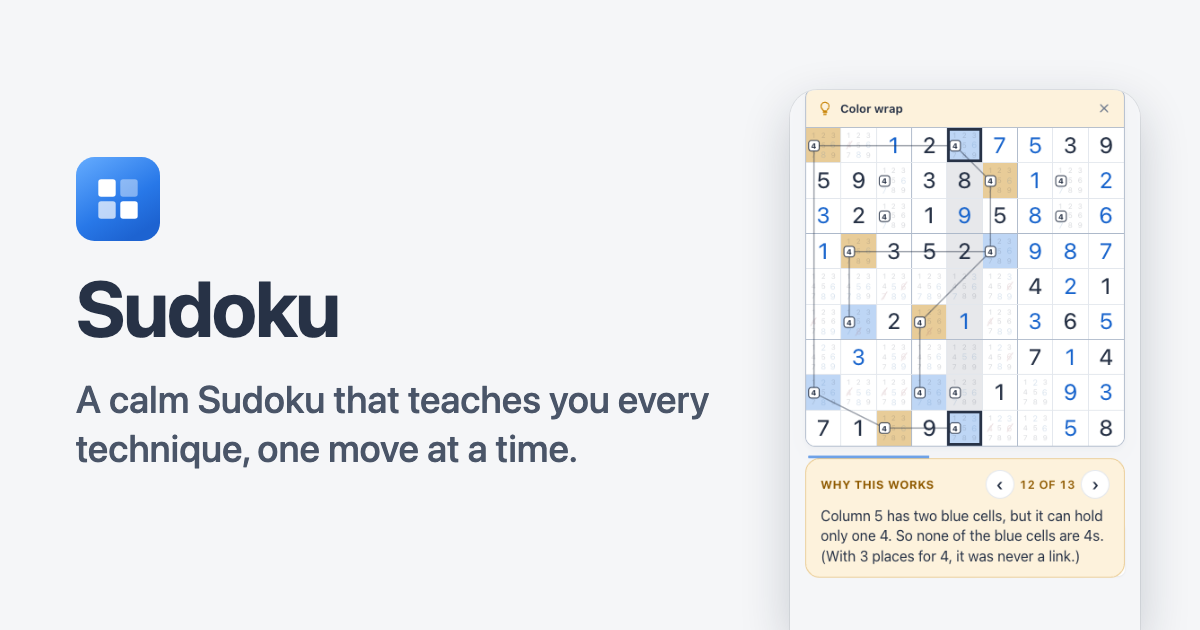
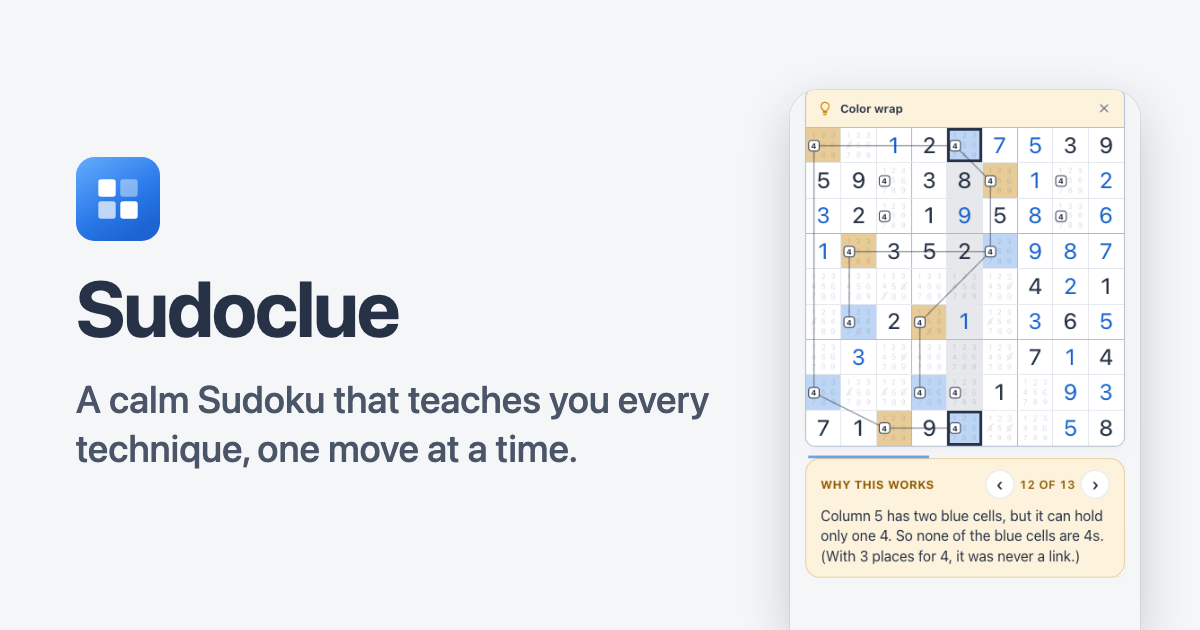
feat: rename the app to Sudoclue
The brand name changes on the website, the installed web app, the iPhone app's home-screen name, the share image, and the README. Text about the game itself ("New to Sudoku?", "A calm Sudoku that teaches...") keeps the word Sudoku. The bundle id and the domain stay the same.

Adds the naming investigation with the trademark and App Store checks behind the choice.

Changed region(s): [[0.2158, 0.4524, 0.3392, 0.5429]]

diff --git a/src/components/game.tsx b/src/components/game.tsx
@@ -683,7 +683,7 @@ export default function SudokuGame() {
   </>;
   const onHome = view === 'home' && !lesson;
   return <>{swipeUnder}<div className="app" onKeyDown={onHome ? undefined : handleKey}>
-    {onHome ? busy && !game ? <header className="app-bar"><h1 className="brand"><AppMark small/><span>Sudoku</span></h1></header> : homeScreen : <>
+    {onHome ? busy && !game ? <header className="app-bar"><h1 className="brand"><AppMark small/><span>Sudoclue</span></h1></header> : homeScreen : <>
     {lesson && <LessonBar name={lessonName(lesson.id)} done={lessonDone} current={lesson.phase === 'practice' ? lesson.board - 1 : null} count={lessonBoards.length - 1} back={{ hint: 'Your game', list: 'Learn', home: 'Home' }[lesson.from]} onExit={exitLesson}/>}
     {/* Lessons hide the bar but keep it mounted, so the clock is never remounted. */}
     <GameBar meta={gameMeta} hidden={Boolean(lesson)} onHome={leaveGame} homeDisabled={busy} onHint={() => { focusAfterRender.current = HINT_STRIP_FOCUS; showHint(); }} hintDisabled={!game || complete || paused || busy} onSettings={() => openSheet('settings')}/>
@@ -795,7 +795,7 @@ export default function SudokuGame() {
 <div className="setting-section"><h3>Appearance</h3><div className="segmented">{(['system','light','dark'] as Theme[]).map(theme => <button key={theme} aria-pressed={preferences.theme === theme} className={preferences.theme === theme ? 'active' : ''} onClick={() => updatePreferences({ theme })}><span className="capitalize">{theme}</span></button>)}</div></div><div className="setting-row"><Icon name="shield" size={21}/><div className="setting-copy"><strong>Block incorrect answers</strong><p>Refuse wrong numbers, and crossing out right ones</p></div><button className="switch" role="switch" aria-checked={preferences.blockIncorrectAnswers} aria-label="Block incorrect answers" onClick={() => updatePreferences({ blockIncorrectAnswers: !preferences.blockIncorrectAnswers })}><span/></button></div><div className="setting-row"><Icon name="fill" size={21}/><div className="setting-copy"><strong>Highlight related cells</strong><p>Follow the row, column, and box</p></div><button className="switch" role="switch" aria-checked={preferences.highlightPeers} aria-label="Highlight related cells" onClick={() => updatePreferences({ highlightPeers: !preferences.highlightPeers })}><span/></button></div><div className="setting-row"><Icon name="sparkles" size={21}/><div className="setting-copy"><strong>Smart highlighting</strong><p>Select a filled cell to see where its number could go</p></div><button className="switch" role="switch" aria-checked={preferences.smartHighlighting} aria-label="Smart highlighting" onClick={() => updatePreferences({ smartHighlighting: !preferences.smartHighlighting })}><span/></button></div><div className="setting-row"><Icon name="filter" size={21}/><div className="setting-copy"><strong>Filter number keys</strong><p id="filter-setting-description">Dim numbers already in this row, column, or box.</p></div><button className="switch" role="switch" aria-checked={preferences.filterNumberKeys} aria-label="Filter number keys" aria-describedby="filter-setting-description" onClick={() => { setBlockedEntry(null); updatePreferences({ filterNumberKeys: !preferences.filterNumberKeys }); }}><span/></button></div><div className="setting-row"><Icon name="clock" size={21}/><div className="setting-copy"><strong>Hide timer</strong><p id="hide-timer-description">Keep tracking time without showing it.</p></div><button className="switch" role="switch" aria-checked={preferences.hideTimer} aria-label="Hide timer" aria-describedby="hide-timer-description" onClick={() => updatePreferences({ hideTimer: !preferences.hideTimer })}><span/></button></div>{process.env.NEXT_PUBLIC_BUILD_TARGET === 'ios' && <div className="setting-group"><div className="setting-row"><Icon name="haptics" size={21}/><div className="setting-copy"><strong>Haptics</strong></div><button className="switch" role="switch" aria-checked={preferences.haptics} aria-label="Haptics" onClick={() => updatePreferences({ haptics: !preferences.haptics })}><span/></button></div></div>}<div className="setting-group" role="group" aria-label="About"><button className="group-row" onClick={() => showSheetPage('help')}><Icon name="help" size={19}/><span>How to play</span><Icon name="chevron" size={14}/></button><button className="group-row" onClick={() => showSheetPage('privacy')}><Icon name="lock" size={19}/><span>Privacy</span><Icon name="chevron" size={14}/></button></div></>}
         {sheet === 'help' && <><div className="sheet-symbol"><Icon name="help" size={28}/></div><h2 id="sheet-title">Nine numbers. One rule.</h2><p className="sheet-subtitle">Fill every row, column, and 3 × 3 box with the numbers 1–9, using each number just once.</p><div className="help-row"><Icon name="pencil"/><div><h3>Room for a possibility</h3><p>Drag from an empty cell to select cells immediately, or hold an empty cell to begin. Drag across other empty cells, or tap them to add or remove them from your selection. A selection uses Notes, or Exclude when Exclude is chosen. Tap a number to apply it to every selected cell. Afterward you stay in Notes or Exclude, or return to Numbers if you started there. Choosing Numbers cancels the selection. If every selected cell already has that note or exclusion, tapping the number removes it from all of them. Tap a filled cell or press Escape to finish selecting. These actions leave your notes unchanged. For repeated note entry in one cell, choose Notes. Entering a number clears that note from related cells.</p></div></div><div className="help-row"><Icon name="bulb"/><div><h3>Stuck? Ask for a hint</h3><p>Tap the bulb for a hint. Each tap shows a little more: the technique, where to look, then a step-by-step walkthrough of why the move works. Apply makes the move for you.</p></div></div><div className="help-row"><Icon name="learn"/><div><h3>Learn every technique</h3><p>All techniques on Home opens a lesson for each one: watch it on a real board, then find it yourself on practice boards.</p></div></div><div className="help-row"><Icon name="undo"/><div><h3>Try things out</h3><p>Undo, beside Erase, takes back your last change, including notes. Redo restores an undone change. Both survive reopening; a new edit clears Redo. Erase clears your number or annotations from the selected cell, and dims when there is nothing to erase. The darker starting numbers stay in place.</p></div></div><div className="help-row"><Icon name="help"/><div><h3>Smart highlighting</h3><p>Enable Smart highlighting in Settings, then select a filled cell. Green cells show where its number is allowed by the current row, column, and box, excluding digits you have ruled out. Cells where you ruled it out turn faded red. These are possible placements, not guaranteed answers. Select an empty cell to clear the highlights when no digit is focused.</p></div></div><div className="help-row"><Icon name="help"/><div><h3>Keep a number in focus</h3><p>With a filled cell selected, tap a number in the number pad to focus that digit. With an empty cell selected, the number pad enters a value. You can also choose Focus on its number or hold a filled cell. Matching numbers and notes stay highlighted while you select empty cells or add notes. With Smart highlighting enabled, possible cells stay green too. Select another filled number to switch. Entering a number also switches focus to it. Clear focus stops focusing. Focus resets for a new puzzle or when you reopen the app.</p></div></div><div className="help-row"><Icon name="pencil"/><div><h3>Fill notes when you want</h3><p>Fill notes in Settings replaces notes in every empty cell with all possibilities allowed by placed numbers. Your crossed-out exclusions stay in place and are left out of the generated notes. Generated notes are blue; notes you edit use the normal text color. Undo restores the previous notes. Entering a number clears matching notes and exclusions from related cells. Notes do not otherwise update automatically.</p></div></div><div className="help-row"><Icon name="pencil"/><div><h3>Record what you rule out</h3><p>Choose Exclude and tap a number to cross it out in a cell. Tap again to clear it. Exclusions also remove that cell from Smart highlighting for that number. They never trigger deductions in other cells.</p></div></div><div className="help-row"><Icon name="filter"/><div><h3>Filter number keys</h3><p>Enable Filter number keys in Settings to dim numbers already in the selected cell’s row, column, or box, in every mode. Tapping or typing a dimmed number, or one with all nine placed, focuses that number instead of entering it. Available numbers are possibilities; Block incorrect answers checks them against the solution separately.</p></div></div><div className="keyboard-help"><h3>Using a keyboard?</h3><p><kbd>↑ ↓ ← →</kbd> Move between cells</p><p><kbd>1–9</kbd> Enter a number <kbd>N</kbd> Notes</p><p><kbd>X</kbd> Exclude. Press the same key again for Numbers.</p><p><kbd>H</kbd> Hint <kbd>Esc</kbd> Close hint</p><p><kbd>⌫</kbd> Erase <kbd>⌘ / Ctrl Z</kbd> Undo</p><p><kbd>⌘ / Ctrl Shift Z</kbd> Redo</p></div><button className="primary-button full-width" onClick={() => closeSheet()}>Got it</button></>}
         {sheet === 'privacy' && <><div className="sheet-symbol"><Icon name="lock" size={28}/></div><h2 id="sheet-title">Privacy</h2><PrivacyPolicy/></>}
-        {sheet === 'install' && <><AppMark/><h2 id="sheet-title">A place on your home screen</h2><p className="sheet-subtitle">Open straight into Sudoku, with more space to play. Once ready, Sudoku works offline too.</p>{installed ? <p className="install-instructions">Sudoku is already installed.</p> : installEvent ? <button className="primary-button full-width" onClick={async () => { try { await installEvent.prompt(); const choice = await installEvent.userChoice; if (choice.outcome === 'accepted') closeSheet(); setInstallEvent(null); } catch { setInstallEvent(null); } }}>Install Sudoku</button> : <div className="install-instructions"><h3>On iPhone or iPad</h3><p>Open in Safari, tap the Share button, then choose <strong>Add to Home Screen</strong>.</p><h3>On Android or desktop</h3><p>Open your browser menu and choose <strong>Install app</strong> or <strong>Add to Home screen</strong>, when available.</p></div>}<p className="privacy-note">{offlineReady ? 'Your app is ready for offline play.' : 'Connect to the internet for the first visit. Offline play becomes available after the app finishes downloading.'}</p><button className="text-button full-width" onClick={() => closeSheet()}>Done</button></>}
+        {sheet === 'install' && <><AppMark/><h2 id="sheet-title">A place on your home screen</h2><p className="sheet-subtitle">Open straight into Sudoclue, with more space to play. Once ready, Sudoclue works offline too.</p>{installed ? <p className="install-instructions">Sudoclue is already installed.</p> : installEvent ? <button className="primary-button full-width" onClick={async () => { try { await installEvent.prompt(); const choice = await installEvent.userChoice; if (choice.outcome === 'accepted') closeSheet(); setInstallEvent(null); } catch { setInstallEvent(null); } }}>Install Sudoclue</button> : <div className="install-instructions"><h3>On iPhone or iPad</h3><p>Open in Safari, tap the Share button, then choose <strong>Add to Home Screen</strong>.</p><h3>On Android or desktop</h3><p>Open your browser menu and choose <strong>Install app</strong> or <strong>Add to Home screen</strong>, when available.</p></div>}<p className="privacy-note">{offlineReady ? 'Your app is ready for offline play.' : 'Connect to the internet for the first visit. Offline play becomes available after the app finishes downloading.'}</p><button className="text-button full-width" onClick={() => closeSheet()}>Done</button></>}
       </div>
     </dialog>
   </div></>;

diff --git a/src/app/layout.tsx b/src/app/layout.tsx
@@ -3,13 +3,13 @@ import { Analytics } from '@vercel/analytics/next';
 import './globals.css';
 import { THEME_COLOR } from '@/lib/theme-color';
 export const metadata: Metadata = {
-  title: 'Sudoku — a little time to focus',
+  title: 'Sudoclue — a little time to focus',
   description: 'A calm Sudoku that teaches you every technique, one move at a time. Free, private, and playable offline.',
-  applicationName: 'Sudoku',
+  applicationName: 'Sudoclue',
   metadataBase: new URL('https://sudoku.seanoliver.dev'),
-  openGraph: { type: 'website', url: '/', siteName: 'Sudoku', title: 'Sudoku', description: 'A calm Sudoku that teaches you every technique, one move at a time.' },
-  twitter: { card: 'summary_large_image', title: 'Sudoku', description: 'A calm Sudoku that teaches you every technique, one move at a time.' },
-  appleWebApp: { capable: true, statusBarStyle: 'default', title: 'Sudoku' },
+  openGraph: { type: 'website', url: '/', siteName: 'Sudoclue', title: 'Sudoclue', description: 'A calm Sudoku that teaches you every technique, one move at a time.' },
+  twitter: { card: 'summary_large_image', title: 'Sudoclue', description: 'A calm Sudoku that teaches you every technique, one move at a time.' },
+  appleWebApp: { capable: true, statusBarStyle: 'default', title: 'Sudoclue' },
   icons: { icon: '/icon-192.png', apple: '/apple-touch-icon.png' },
 };
 export const viewport: Viewport = {

diff --git a/src/components/home.tsx b/src/components/home.tsx
@@ -42,7 +42,7 @@ export function Home({ state, game, seconds, learned, next, solved, greeting, on
   const clock = seconds === null ? '' : time(seconds);
   return <>
     <header className="app-bar">
-      <h1 className="brand"><AppMark small/><span>Sudoku</span></h1>
+      <h1 className="brand"><AppMark small/><span>Sudoclue</span></h1>
       <div className="app-actions"><button className="icon-button settings-button" aria-label="Settings" onClick={onSettings}><Icon name="settings"/></button></div>
     </header>
     <main className="game home">
@@ -83,7 +83,7 @@ export function Home({ state, game, seconds, learned, next, solved, greeting, on
       </button>}
       {onInstall && <button className="home-install" onClick={onInstall}>
         <AppMark small/>
-        <span className="home-lesson-copy"><strong>Add Sudoku to your home screen</strong><small>Opens in one tap and works offline</small></span>
+        <span className="home-lesson-copy"><strong>Add Sudoclue to your home screen</strong><small>Opens in one tap and works offline</small></span>
         <Icon name="chevron" size={16}/>
       </button>}
     </main>

diff --git a/scripts/share-image/index.html b/scripts/share-image/index.html
@@ -6,5 +6,5 @@ h1{margin:0;font-size:78px;letter-spacing:-.02em;line-height:1}
 p{margin:0;font-size:34px;line-height:1.3;color:#4a5568;font-weight:500}
 .url{font-size:22px;color:#2776df;font-weight:650}
 </style><div style="display:flex;height:630px;align-items:center;padding:0 60px 0 76px;gap:56px">
-<div style="flex:1;display:flex;flex-direction:column;gap:28px"><img class="mark" src="../../public/icon.svg"><h1>Sudoku</h1><p style="font-size:38px;line-height:1.28">A calm Sudoku that teaches you every technique, one move at a time.</p></div>
+<div style="flex:1;display:flex;flex-direction:column;gap:28px"><img class="mark" src="../../public/icon.svg"><h1>Sudoclue</h1><p style="font-size:38px;line-height:1.28">A calm Sudoku that teaches you every technique, one move at a time.</p></div>
 <div class="phone" style="width:350px;height:540px;align-self:flex-end;border-bottom-left-radius:0;border-bottom-right-radius:0"><img src="../../docs/screenshots/hint-walkthrough-wrap.png" style="margin-top:-128px"></div></div>

diff --git a/src/app/privacy/page.tsx b/src/app/privacy/page.tsx
@@ -2,8 +2,8 @@ import type { Metadata } from 'next';
 import Link from 'next/link';
 import { PrivacyPolicy } from '@/components/privacy-policy';
 
-export const metadata: Metadata = { title: 'Privacy · Sudoku' };
+export const metadata: Metadata = { title: 'Privacy · Sudoclue' };
 
 export default function Privacy() {
-  return <main className="app privacy-page"><Link className="lesson-back" href="/"><span aria-hidden="true">‹ </span><span>Sudoku</span></Link><h1>Privacy</h1><PrivacyPolicy headingLevel={2}/></main>;
+  return <main className="app privacy-page"><Link className="lesson-back" href="/"><span aria-hidden="true">‹ </span><span>Sudoclue</span></Link><h1>Privacy</h1><PrivacyPolicy headingLevel={2}/></main>;
 }

diff --git a/src/components/game-bar.tsx b/src/components/game-bar.tsx
@@ -3,7 +3,7 @@ import { Icon } from './icons';
 
 export function GameBar({ meta, hidden, onHome, homeDisabled, onHint, hintDisabled, onSettings }: { meta: ReactNode; hidden: boolean; onHome: () => void; homeDisabled: boolean; onHint: () => void; hintDisabled: boolean; onSettings: () => void }) {
   return <header className={`game-bar ${hidden ? 'lesson-hidden' : ''}`}>
-    <h1 className="sr-only">Sudoku</h1>
+    <h1 className="sr-only">Sudoclue</h1>
     <button className="icon-button home-button" aria-label="Home" title="Home" disabled={homeDisabled} onClick={onHome}><Icon name="home"/></button>
     <div className="game-bar-center">{meta}</div>
     <div className="game-bar-actions">

diff --git a/src/components/privacy-policy.tsx b/src/components/privacy-policy.tsx
@@ -2,7 +2,7 @@
 export function PrivacyPolicy({ headingLevel = 3 }: { headingLevel?: 2 | 3 } = {}) {
   const H = headingLevel === 2 ? 'h2' : 'h3';
   return <div className="privacy-policy">
-    <p>Sudoku has no accounts, and no server stores your puzzles or settings.</p>
+    <p>Sudoclue has no accounts, and no server stores your puzzles or settings.</p>
     <H>On your device</H>
     <p>Your puzzles, notes, history, lessons, and settings are saved on your device and are not sent anywhere, apart from your device&apos;s own backups. Deleting the app, or clearing the site&apos;s data in your browser, deletes them.</p>
     <H>The app</H>

diff --git a/e2e/game-bar.spec.ts b/e2e/game-bar.spec.ts
@@ -28,7 +28,7 @@ test('the game bar holds Home, the difficulty and timer, hint, and Settings in o
   for (const b of boxes) expect(Math.abs(middle(b!) - middle(boxes[0]!))).toBeLessThan(4);
   await expect(page.getByRole('button', { name: /Install app/ })).toHaveCount(0);
   await expect(page.getByRole('heading', { level: 1 })).toHaveCount(1);
-  await expect(page.getByRole('heading', { level: 1, name: 'Sudoku', exact: true })).toHaveCount(1);
+  await expect(page.getByRole('heading', { level: 1, name: 'Sudoclue', exact: true })).toHaveCount(1);
 });
 
 test('the hint button in the bar opens the hint strip', async ({ page }) => {

diff --git a/e2e/home.spec.ts b/e2e/home.spec.ts
@@ -174,7 +174,7 @@ test('Home’s secondary text stays readable in dark mode', async ({ page }) => 
 
 test('Home offers to install the app, and the card opens the install sheet', async ({ page }) => {
   await page.goto('/');
-  await page.getByRole('button', { name: /^Add Sudoku to your home screen/ }).focus();
+  await page.getByRole('button', { name: /^Add Sudoclue to your home screen/ }).focus();
   await page.keyboard.press('Enter');
   await expect(page.getByRole('heading', { name: 'A place on your home screen' })).toBeVisible();
   await page.keyboard.press('Escape');

diff --git a/src/app/manifest.ts b/src/app/manifest.ts
@@ -4,7 +4,7 @@ export const dynamic = 'force-static';
 import { THEME_COLOR } from '@/lib/theme-color';
 export default function manifest(): MetadataRoute.Manifest {
   return {
-    id: '/', name: 'Sudoku', short_name: 'Sudoku',
+    id: '/', name: 'Sudoclue', short_name: 'Sudoclue',
     description: 'A simple, free Sudoku game that feels right at home.',
     start_url: '/', scope: '/', display: 'standalone',
     background_color: THEME_COLOR.light, theme_color: THEME_COLOR.light,

diff --git a/e2e/privacy.spec.ts b/e2e/privacy.spec.ts
@@ -4,6 +4,6 @@ test('the privacy policy has its own page that links back to the app', async ({ 
   await page.goto('/privacy');
   await expect(page.getByRole('heading', { level: 1 })).toHaveText('Privacy');
   await expect(page.getByText('The iPhone app collects nothing.')).toBeVisible();
-  await page.getByRole('link', { name: /Sudoku/ }).click();
+  await page.getByRole('link', { name: /Sudoclue/ }).click();
   await expect(page).toHaveURL(/\/$/);
 });

diff --git a/capacitor.config.ts b/capacitor.config.ts
@@ -2,7 +2,7 @@ import type { CapacitorConfig } from '@capacitor/cli';
 
 const config: CapacitorConfig = {
   appId: 'dev.seanoliver.sudoku',
-  appName: 'Sudoku',
+  appName: 'Sudoclue',
   webDir: 'out',
   ios: { contentInset: 'never' },
 };
